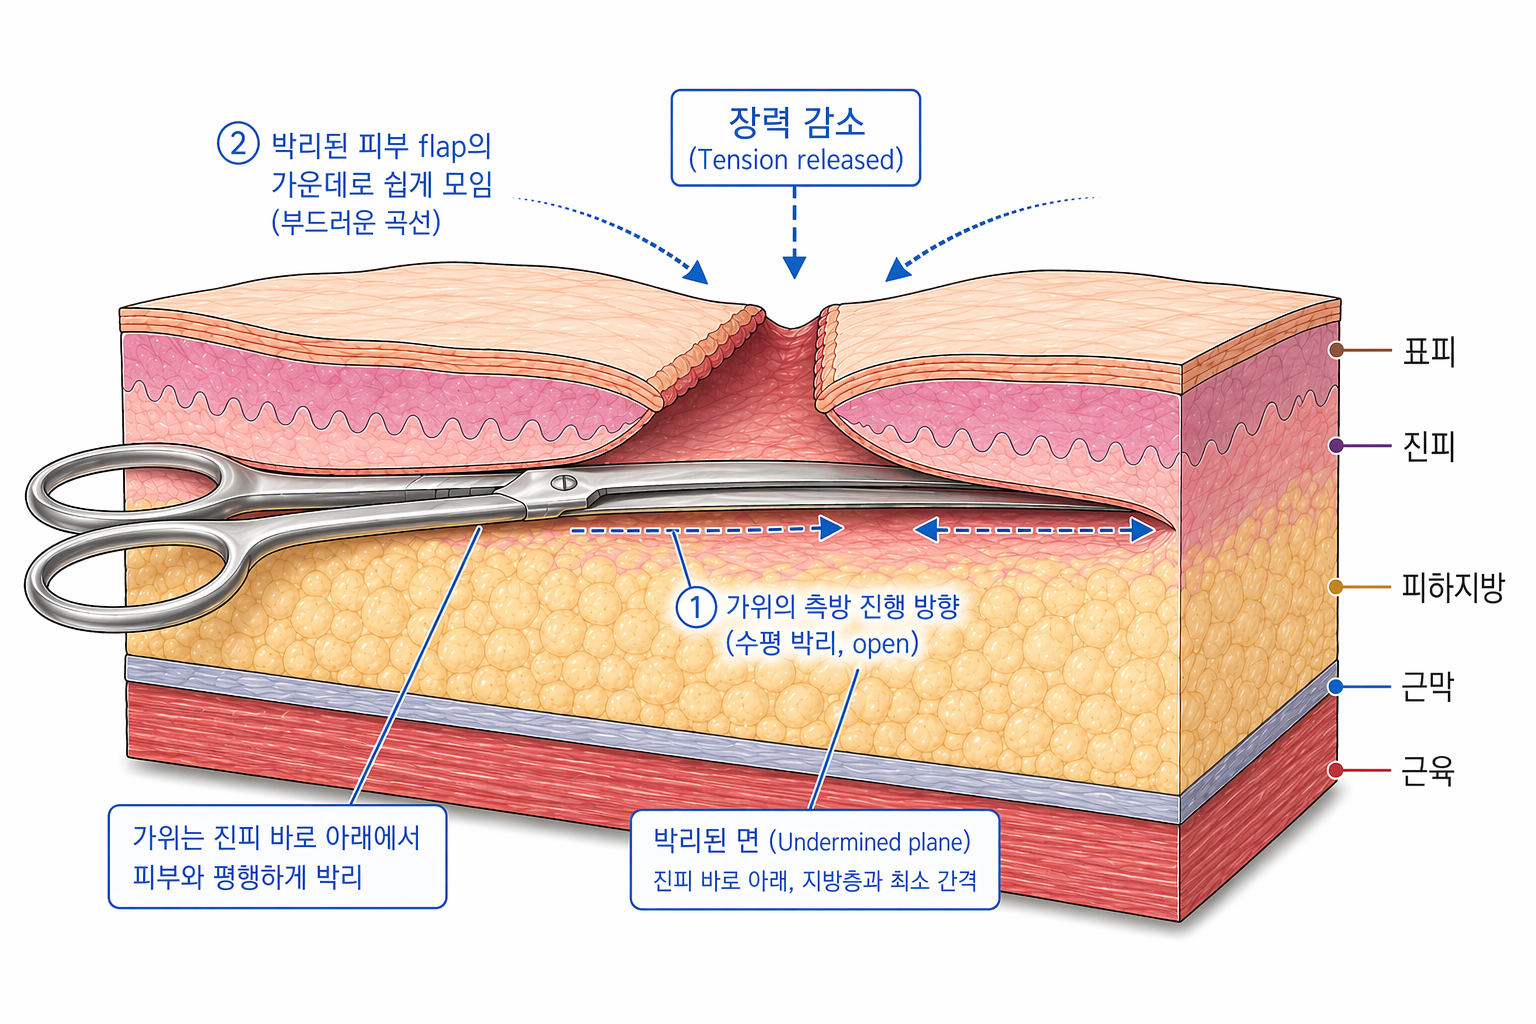
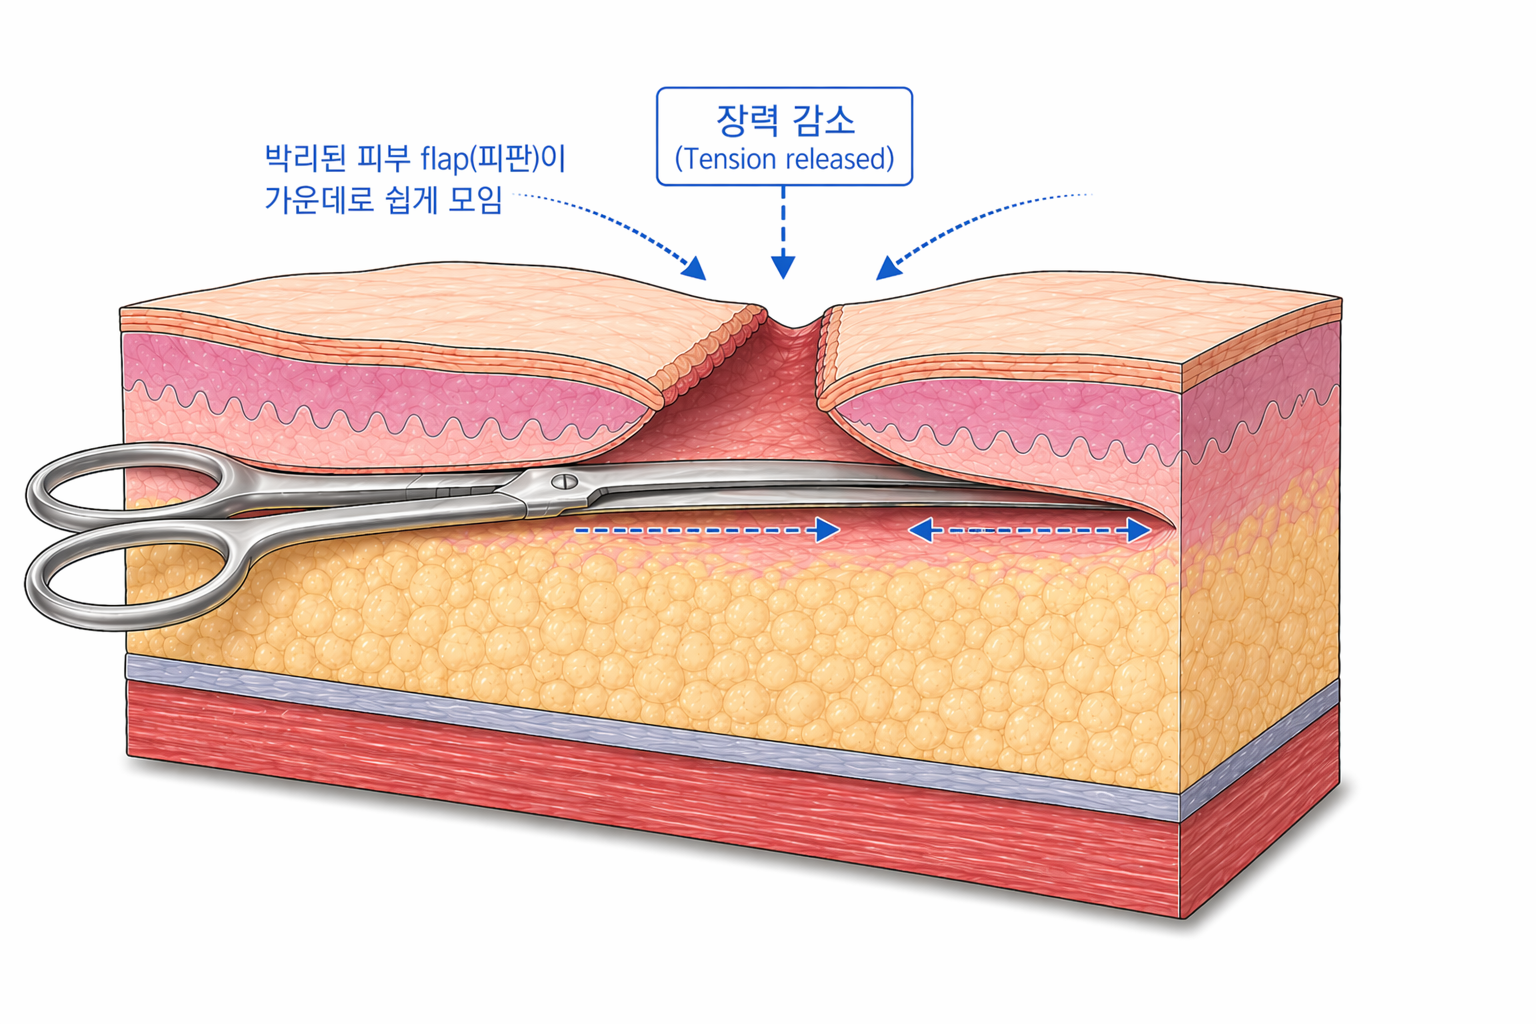
Add files via upload

diff --git a/index.html b/index.html
@@ -783,6 +783,29 @@ footer {
 }
 .hero-bg-mobile { display: none; }
 .hero-bg-desktop { display: block; }
+@media (max-width: 560px) {
+  .technique-step.reverse { display: flex; flex-direction: column; }
+  .technique-step.reverse > img { order: 2; }
+  .technique-step.reverse > div { order: 1; }
+}
+@media (max-width: 560px) {
+  .review-track-wrap {
+    overflow-x: auto;
+    -webkit-overflow-scrolling: touch;
+    scroll-snap-type: x mandatory;
+    cursor: grab;
+  }
+  .review-track-wrap::before,
+  .review-track-wrap::after { display: none; }
+  .review-track {
+    animation: none !important;
+    width: max-content;
+  }
+  .review-card {
+    scroll-snap-align: start;
+    min-width: 80vw;
+  }
+}
 </style>
 </head>
 <body>
@@ -1130,7 +1153,7 @@ footer {
           봉합이 필요 없으면 <strong>'이 상처는 안 꿰매도 됩니다'라고 솔직하게 말씀드립니다.</strong>
         </div>
       </details>
-      <details><summary>다친 지 2~3일이 지났는데, 지금이라도 꿰맬 수 있나요? <span class="si">+</span></summary>
+      <details><summary>찢어진 지 2-3일 지났습니다. 지금이라도 봉합할 수 있나요? <span class="si">+</span></summary>
         <div class="faq-ans">
           이미 상처 부위에 새살이 차오르기 시작했다면 봉합이 어려울 수 있습니다.<br>
           하지만 상처의 상태에 따라 2일 정도가 지나도 봉합이 가능한 경우가 존재합니다.<br><br>
@@ -1138,7 +1161,7 @@ footer {
           <strong>늦었다고 단정 짓지 마시고, 내원하셔서 정확한 상태를 확인받아 보시길 권해드립니다.</strong>
         </div>
       </details>
-      <details><summary>응급실이나 타병원에서 급하게 꿰맸는데, 재봉합 할 수 있나요? <span class="si">+</span></summary>
+      <details><summary>응급실/타병원에서 꿰맸습니다. 재봉합할 수 있나요? <span class="si">+</span></summary>
         <div class="faq-ans">
           네, 흉터 걱정 때문에 재봉합을 위해 내원하시는 분들이 굉장히 많습니다.<br>
           물론 무조건 실밥을 풀고 다시 꿰매는 것은 아닙니다.<br><br>
@@ -1167,7 +1190,7 @@ footer {
           다만 아이가 극도로 불안해하거나 협조하기 어려운 상황이라면 진정제 복용 후 진행하기도 합니다.
         </div>
       </details>
-      <details><summary>마취나 진정제 복용을 위해 내원 전 금식을 해야 하나요? <span class="si">+</span></summary>
+      <details><summary>내원 전 금식을 해야 하나요? <span class="si">+</span></summary>
         <div class="faq-ans">
           <strong>가능하면 4시간 정도 금식 상태로 내원해 주세요.</strong><br>
           포크랄 진정제를 사용할 수 있기 때문에 구토 가능성을 줄이기 위한 권고입니다.<br><br>
@@ -1280,8 +1303,8 @@ footer {
   <div class="footer-inner">
     <div>
       <div class="footer-logo">강남테라성형외과</div>
-      <div>대표원장 유채규 · 성형외과 전문의 (보건복지부 제 1155호)</div>
-      <div>경기 부천시 원미구 상동로 90 메가플러스 B동 2층 209호 · 032-516-5977</div>
+      <div>원장 유채규 · 성형외과 전문의 (보건복지부 제 1155호)</div>
+      <div>경기 부천시 원미구 상동로 90 메가플러스 B동 2층 209호</div><div>032-516-5977</div>
     </div>
     <div class="footer-disc">
       본 페이지의 내용은 일반적인 의료 정보 제공을 목적으로 하며, 개인의 상태에 따라 진료 결과가 다를 수 있습니다. 정확한 진단과 치료는 반드시 의료진과 직접 상담하시기 바랍니다.
@@ -1315,21 +1338,22 @@ function closeReviewModal() {
 var reviewTrack = document.getElementById('reviewTrack');
 var reviewWrap = document.querySelector('.review-track-wrap');
 
-// 모바일: wrap 전체 터치로 pause 토글 (한 번만 실행)
-var reviewTouchLock = false;
+// 모바일: 슬라이드 스와이프 (PC는 기존 pause 토글 유지)
 if (reviewWrap) {
-  reviewWrap.addEventListener('touchend', function(e) {
-    var isMobile = window.matchMedia('(max-width: 560px)').matches;
-    if (!isMobile) return;
-    if (reviewTouchLock) return;
-    reviewTouchLock = true;
-    setTimeout(function() { reviewTouchLock = false; }, 400);
-    if (reviewTrack.classList.contains('paused')) {
-      reviewTrack.classList.remove('paused');
-    } else {
-      reviewTrack.classList.add('paused');
-    }
-  });
+  var isMobileSlider = window.matchMedia('(max-width: 560px)').matches;
+  if (!isMobileSlider) {
+    var reviewTouchLock = false;
+    reviewWrap.addEventListener('touchend', function(e) {
+      if (reviewTouchLock) return;
+      reviewTouchLock = true;
+      setTimeout(function() { reviewTouchLock = false; }, 400);
+      if (reviewTrack.classList.contains('paused')) {
+        reviewTrack.classList.remove('paused');
+      } else {
+        reviewTrack.classList.add('paused');
+      }
+    });
+  }
 }
 
 // 데스크탑: 카드 클릭시 이미지 확대
